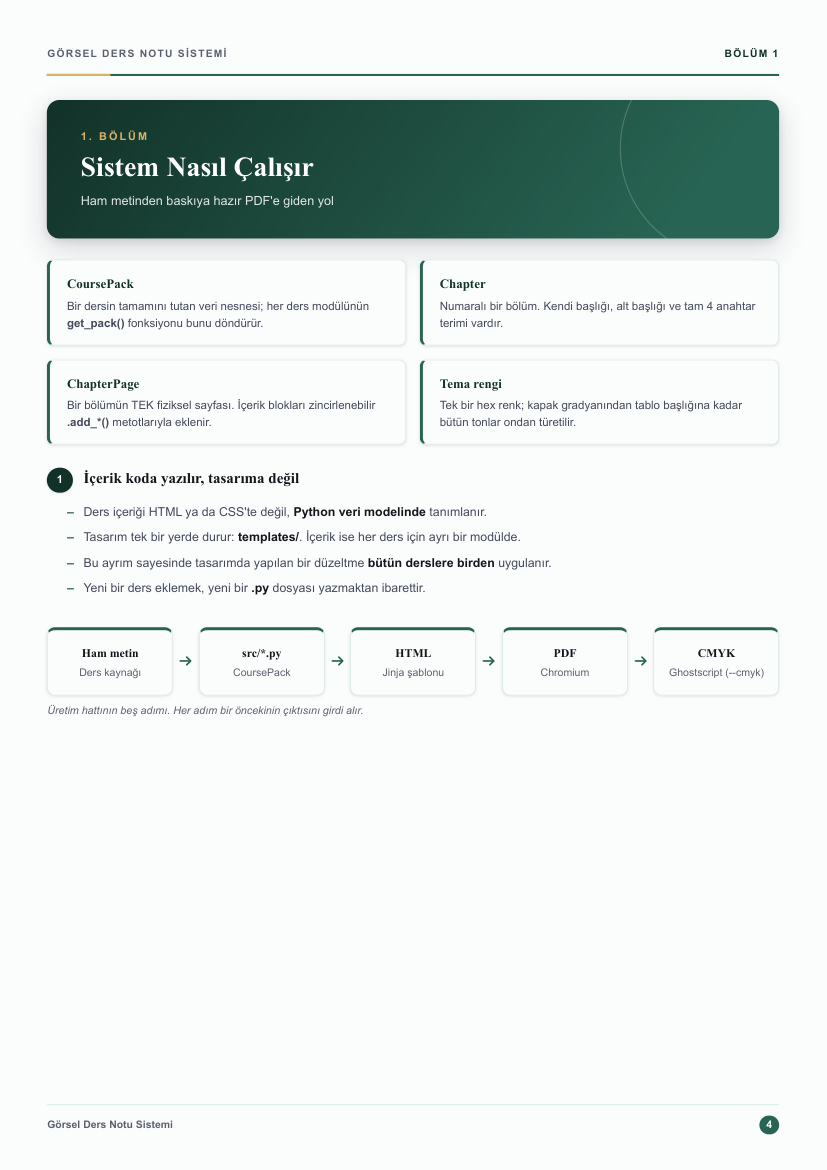
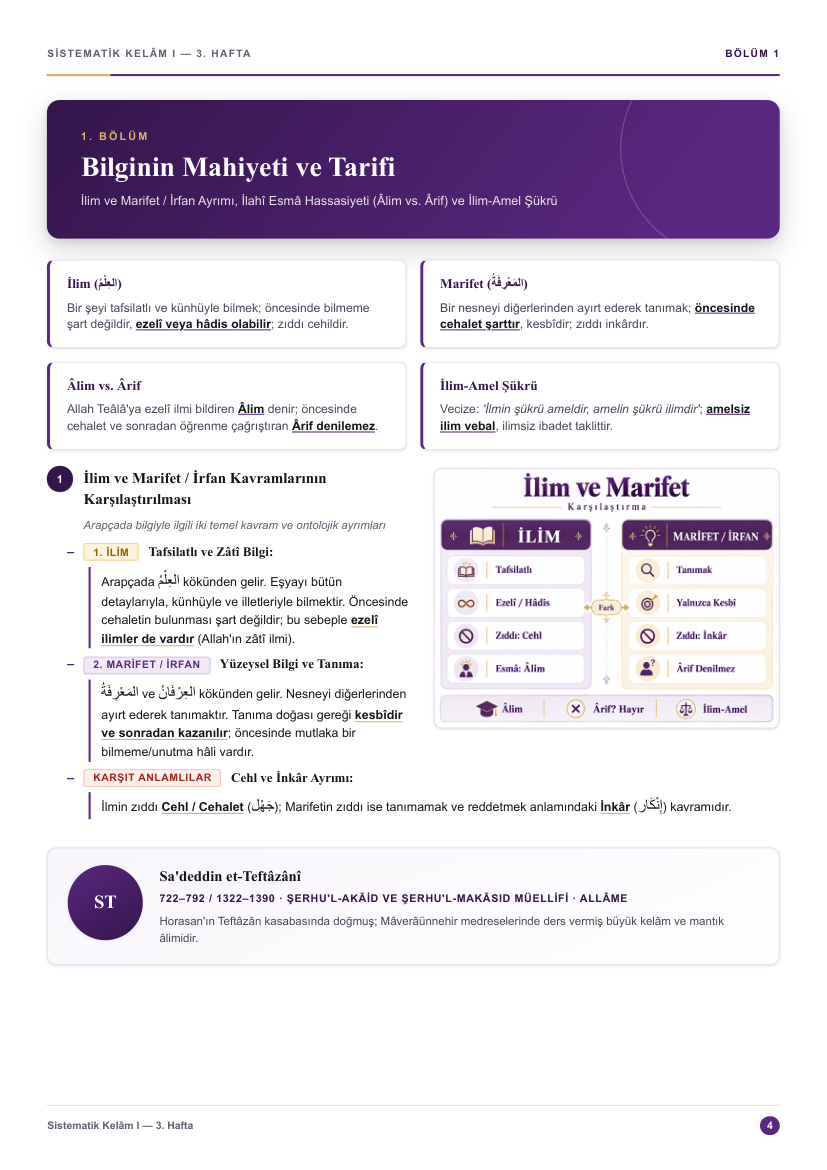
docs(readme): gorsel ders notu uretim sistemi vitrini, pedagojik gorseller ve nass tipografisi ile guncellendi

diff --git a/README.md b/README.md
@@ -1,210 +1,184 @@
 # Görsel Ders Notu Üretim Sistemi
 
-[![build](https://github.com/ByNuman/ders-uretim-sistemi/actions/workflows/build.yml/badge.svg)](https://github.com/ByNuman/ders-uretim-sistemi/actions/workflows/build.yml) [![license: GPL v3](https://img.shields.io/badge/license-GPLv3-blue.svg)](LICENSE)
+[![build](https://github.com/ByNuman/ders-uretim-sistemi/actions/workflows/build.yml/badge.svg)](https://github.com/ByNuman/ders-uretim-sistemi/actions/workflows/build.yml) [![license: GPL v3](https://img.shields.io/badge/license-GPLv3-blue.svg)](LICENSE) [![Python 3.10+](https://img.shields.io/badge/python-3.10+-3776AB.svg?logo=python&logoColor=white)](https://www.python.org/) [![Playwright](https://img.shields.io/badge/render-Playwright%20Chromium-2EAD33.svg?logo=playwright&logoColor=white)](https://playwright.dev/) [![Print Ready](https://img.shields.io/badge/print-A4%20%7C%20PDF%2FX--4-critical.svg)](#ne-üretir)
 
-Üniversite derslerinin ham metin özetlerini **A4 görsel ders notu kitabı**
-PDF'ine çeviren bir üretim hattı. Çıktı; kapak, içindekiler, genel bakış,
-numaralı bölümler (terim kutuları, kişi kartları, karşılaştırma tabloları,
-akış şemaları, vurgu kutuları), kavramlar sözlüğü ve 20 soruluk çoktan
-seçmeli test + çözümlü cevap anahtarından oluşur.
+Üniversite derslerinin ve İslâmî ilimler müfredatının ham metin özetlerini **A4 görsel ders notu kitabı** PDF'ine çeviren yüksek standartlı bir üretim hattı. 
 
-PDF doğrudan **fotokopiyle çoğaltılmak** üzere hazırlanır: dar kenarlı A4,
-RGB, taşma payı yok. Matbaaya iş göndereceğiniz gün `--cmyk` bayrağı aynı
-dosyayı PDF/X-4 (DeviceCMYK) standardına çevirir.
+Çıktı; altın köşe motifli vektörel kapak, kapak arkası boş sayfa (çift taraflı baskı / Senaryo A uyumu), tek sayfalık dinamik içindekiler, 4:3 oranında pedagojik şema ve görsel kutulu bölümler (`add_block_gorsel`), İslâmî ilimler / Arapça nass ve satır altı (interlinear) tercüme levhaları, 4'lü tematik kelime kartları ve 20 soruluk pedagojik zorluk piramidine sahip çoktan seçmeli test (10+10 ferah düzen) + analitik çözümlü cevap anahtarından oluşur.
 
-Ders içeriği HTML/CSS'te değil, **Python veri modelinde** yazılır
-(`cekirdek/content_model.py`). Tasarım tek bir yerde durur (`templates/`), içerik ise
-her ders için ayrı bir modülde. Bu yüzden tasarımda yapılan bir düzeltme tüm
-derslere birden uygulanır.
+PDF doğrudan **fotokopi ve ofis yazıcısıyla çoğaltılmak** üzere hazırlanır: dar kenarlı A4 (210 × 297 mm), RGB, taşma payı yok. Matbaaya iş göndereceğiniz gün `--cmyk` bayrağı aynı dosyayı **PDF/X-4 (DeviceCMYK)** standardına çevirir ve kesim kutularını yazar.
+
+Ders içeriği HTML/CSS'te değil, **Python veri modelinde** tanımlanır (`cekirdek/content_model.py`). Tasarım tek bir yerde durur (`templates/`), içerik ise her ders için ayrı bir modülde (`src/`). Bu sayede tasarımda yapılan bir iyileştirme tüm derslere ve haftalara anında uygulanır.
+
+---
 
 <p align="center">
-  <img src="docs/ornek-kapak.png" alt="Kapak sayfası" width="24%">
-  <img src="docs/ornek-genel-bakis.png" alt="Genel bakış sayfası" width="24%">
-  <img src="docs/ornek-bolum.png" alt="Bölüm sayfası" width="24%">
-  <img src="docs/ornek-test.png" alt="Test sayfası" width="24%">
+  <img src="docs/ornek-kapak.png" alt="Vektörel Kurumsal Kapak" width="24%">
+  <img src="docs/ornek-bolum.png" alt="Pedagojik Görsel ve Şema Kutulu Bölüm" width="24%">
+  <img src="docs/ornek-kelime-kartlari.png" alt="Arapça Tematik Kelime Kartları Fihristi" width="24%">
+  <img src="docs/ornek-test.png" alt="20 Soruluk Pedagojik Değerlendirme Testi" width="24%">
 </p>
 
 <p align="center">
-  <sub>Depoyla birlikte gelen <code>ornek_ders</code> çıktısından: kapak ·
-  genel bakış · bölüm · değerlendirme testi</sub>
+  <sub><b>Sistemin güncel çıktılarından:</b> Vektörel Kurumsal Kapak · Pedagojik Görsel Kutulu Bölüm (4:3 Float Mizanpaj) · Tematik Arapça Kelime Kartları · 10+10 Ferah Değerlendirme Testi</sub>
 </p>
 
-## Hızlı başlangıç
+<p align="center">
+  <img src="docs/ornek-interlinear.png" alt="Kelime Kelime Satır Altı Tercüme ve Kavram Levhası" width="48.5%">
+  <img src="docs/ornek-cozum.png" alt="Genişletilmiş Analitik Çözümlü Cevap Anahtarı" width="48.5%">
+</p>
 
-Sistemi yeni indirdiyseniz sırasıyla şunları yapın (~10-15 dk):
+<p align="center">
+  <sub><b>Derinlikli Dil ve Sınav Mimarisi:</b> Kelime Kelime Satır Altı (Interlinear) Tercüme Levhası ve Kavram Şeması · Arapça Mealli Analitik Çözümlü Cevap Anahtarı</sub>
+</p>
+
+---
+
+## Öne Çıkan Pedagojik ve Tipografik Standartlar
+
+### 1. 🖼 Pedagojik Görsel & Şema Matrisi (`add_block_gorsel`)
+- **Float Metin Sarmalama Mimarisi:** Görsel kutusu rijit grid yerine sağa yaslanır (`float: right`). Metin başlığı ve ilk maddeler görselin solunda akarken, devam eden maddeler görselin altına taşarak tam genişliğe yayılır; sayfada ölü boşluk kalmaz.
+- **4:3 En-Boy Oranı:** Tüm şema ve infografik çerçeveleri uluslararası 4:3 standardında yerleştirilir.
+- **11 Temel Pedagojik Şablon:** İnfografik Harita (havzalar), Kronolojik Zaman Çizelgesi, İsnad/Sened Ağacı, Hüküm Karar Ağacı, Hiyerarşik Değerler Piramidi, Çoklu Mezhep/Ekol Matrisi, İki Kutuplu Karşılaştırma Şeması, Silsile & İlim Ağacı, Kavram & Nitelik Şeması, Döngüsel Süreç Modeli, Yapısal Kesit & Eser Mimarisi.
+- **Sıfır Mikro-Metin Kuralı:** Görsel kutuları kompakt olduğundan, içine okunaksız küçük paragraflar konulmaz; iri, net ve ferah 1–3 kelimelik Türkçe kavram etiketleri ve akış okları kullanılır.
+
+### 2. 📖 İslâmî İlimler, Nass ve Arapça BiDi Tipografisi
+- **BiDi İzolasyonu & Font Ölçeği:** LTR Türkçe metin içerisinde Arapça karakterlerin noktalama işaretlerini ve liste imlerini bozmasını önlemek için tüm Arapça ibareler `<bdi class="ar">` ile izole edilir. Arapça ve harekeli ibareler net okunabilirlik için %130 daha büyük (`font-size: 1.28em–1.32em`) ve ferah satır aralığıyla (`line-height: 1.68`) işlenir.
+- **Arap Dili Bütünleşik Modeli:** 
+  - Kitap başındaki kelimeler 4 sütunlu estetik kelime kartları (`.vocab-grid-4`, `.v-card`) halinde tanzim edilir (Arapça kelime, sarf/vezin/cem rozeti, Türkçe karşılık).
+  - Klasik metinler, hutbeler ve alıştırmalar `_w(ar, tr)` belirteçleriyle kelime kelime satır altı (interlinear) tercüme edilir.
+  - Ana metinler `_board` (çift sütunlu levha), alıştırmalar `_box` (satır altı kutusu) ile sunulur.
+
+### 3. 🎯 20 Soruluk Pedagojik Zorluk Piramidi & Çözümlü Cevap Anahtarı
+- **Pedagojik Piramit (10 + 10 Soru):** 
+  - *1–6. Sorular (Kolay):* Doğrudan kavram, terim ve isim bilgisi.
+  - *7–14. Sorular (Orta):* Karşılaştırma, usûl tahlili ve sebep-sonuç ilişkileri.
+  - *15–20. Sorular (Zor):* Öncüllü sorular (Roman rakamlı `I, II, III`), olumsuz soru kökleri ve Arapça ibare çözümlemeleri.
+- **Şık Boyutu Eşitliği & Homojenlik:** "En uzun şık doğru cevaptır" yanılsaması kesinlikle engellenir; 5 seçenek (`A, B, C, D, E`) paralel cümle yapısında ve birbirine denk uzunlukta tanzim edilir.
+- **Parantez İçi Tüyo Yasağı:** Soru kökünde veya şıklarda terimin Türkçe anlamını parantez içinde vermek yasaktır; anlam ve izahlar çözümlü cevap anahtarında öğretici olarak sunulur.
+- **Ferah Test Düzeni:** Test tam 2 sayfaya yayılır. Sorular arasında göz yoran kesik çizgiler yerine temiz dikey beyaz boşluk (`margin-bottom: 1.0–2.0mm`) kullanılır.
+- **Analitik Çözümlü Cevap Anahtarı:** Tam 1 sayfaya dengeli yayılır (%85–95 doluluk). Minik punto yerine gövde standardına yakın punto (`9.2pt`), belirgin doğru cevap hap rozetleri (`8.2pt`) ve Arapça ibarelerin Türkçe mealleri eksiksiz verilir.
+
+### 4. 📐 Senaryo A Mizanpajı & Çift Taraflı Baskı Uyumu
+- **Kapak Arkası Boş Sayfa:** Çift taraflı baskıda içindekiler sayfasının daima sağ sayfada açılabilmesi için kapağın hemen arkasına boş sayfa (`<section class="page blank-page ...">`) yerleştirilir.
+- **Tekil Ders Notu Akışı:** `s.1 Kapak` → `s.2 Boş Sayfa` → `s.3 İçindekiler` → `s.4 Bölüm 1`.
+- **Tek Sayfalık İçindekiler:** İçindekiler asla 2. sayfaya taşmaz (`TOC_MAX_ROWS = 14`); sığdırmayı CSS sıkışık kipi dinamik olarak yönetir.
+
+### 5. ⚡ 0 mm Taşma & Sayfa Verimliliği
+- Sayfalarda gereksiz boşluk ve seyreklik yasaktır; her sayfa `%90–100` doluluk hedefler.
+- `tools/olcum.py` ile sayfa doluluğu milimetrik ölçülür; `build.py` taşma denetiminde **0 mm taşma** ("tüm sayfalar 210x297mm sınırları içinde ✓") görülmeden derleme tamamlanmış sayılmaz. Taşan sayfalar `tools/dengele.py` ile otomatik dengelenir.
+
+---
+
+## Hızlı Başlangıç
+
+Sistemi bilgisayarınıza kurmak ~10-15 dakika sürer (büyük bölümü Chromium indirmesidir):
 
 ```bash
 git clone https://github.com/ByNuman/ders-uretim-sistemi.git
 cd ders-uretim-sistemi
 
-pip install -r requirements.txt      # Python paketleri
-npm install                          # PDF'i Chromium render eder
-npx playwright install chromium      # ~150 MB, sadece ilk kurulumda
+pip install -r requirements.txt      # Python paketleri (jinja2, pypdf, pymupdf vb.)
+npm install                          # Playwright altyapısı
+npx playwright install chromium      # PDF render motoru (~150 MB, tek seferlik)
 
-python build.py ornek_ders            # örnek dersi derle
+python build.py ornek_ders           # Örnek dersi derle
 ```
 
-Son komut 13 sayfalık örnek bir ders PDF'i üretir. Ürettiyse kurulum
-tamamdır. **Ghostscript** yalnızca matbaa çıktısı (`--cmyk`) alacaksanız
-gerekir; varsayılan A4 RGB çıktı için kurmanıza gerek yok.
+Son komut 13 sayfalık örnek bir ders PDF'i üretir. Ürettiyse kurulum tamamdır.
 
-**Adım adım anlatım, işletim sistemine göre kurulum ve sorun giderme için:
-[`docs/KURULUM.md`](docs/KURULUM.md)**
+**İşletim sistemine göre adım adım anlatım ve sorun giderme için: [`docs/KURULUM.md`](docs/KURULUM.md)**
 
-## Ne üretir
+---
+
+## Ne Üretir
 
 | Çıktı | Komut |
 |---|---|
-| Tek dersin görsel ders notu PDF'i | `python build.py <slug> --sinif X --donem Y --sinav Z` |
-| Bir dönemin tüm derslerini içeren birleşik kitap | `python build_kitap.py --sinif X --donem Y --sinav Z` |
+| Tek dersin / haftanın görsel ders notu PDF'i | `python build.py <slug> --sinif X --donem Y --sinav Z` |
+| Bir dönemin veya haftanın birleşik kitabı | `python build_kitap.py --sinif X --donem Y --sinav Z` |
 | Bir sınıfın tüm ders kapaklarının renk önizlemesi | `python tools/kapak_onizleme.py --sinif 3` |
+| Sayfa doluluk ve verimlilik ölçümü | `python tools/olcum.py <slug> --sinif X --donem Y --sinav Z` |
+| Otomatik sayfa taşma dengelemesi | `python tools/dengele.py <slug> --sinif X --donem Y --sinav Z` |
 
-Sayfa özellikleri: **A4 (210 × 297 mm)**, dar kenar boşlukları
-(üst 12 · alt 15 · yan 12 mm), taşma payı yok ve gerçek PDF yer imleri.
-Çıktı **RGB**'dir — doğrudan fotokopi/ofis yazıcısı içindir. Matbaaya iş
-göndereceğiniz gün `--cmyk` bayrağı **PDF/X-4 (DeviceCMYK)** dönüşümünü
-açar ve kesim kutularını yazar.
+Sayfa özellikleri: **A4 (210 × 297 mm)**, dar kenar boşlukları (üst 12 · alt 15 · yan 12 mm), taşma payı yok ve gerçek PDF yer imleri. Çıktı varsayılan olarak **RGB**'dir. Matbaa için `--cmyk` bayrağı **PDF/X-4 (DeviceCMYK)** dönüşümünü açar.
 
-## Depoda ders PDF'leri neden yok?
+---
 
-Bu depo **sistemi** içerir, ders çıktılarını değil. İki sebeple:
+## Depoda Ders PDF'leri Neden Yok?
 
-1. **Çıktılar yeniden üretilebilir.** Bir dersin gerçek içeriği
-   `<dönem>/src/<ders>.py` modülüdür; PDF her zaman ondan yeniden derlenir.
-   Üretilmiş PDF'i depoda tutmak, aynı bilgiyi ikinci kez ve ikili (binary)
-   biçimde saklamak olurdu — git ikili dosyaları sıkıştıramadığı için her
-   yeniden derleme depoya tam bir kopya daha eklerdi.
-2. **Ham ders kaynakları kişiseldir.** `kaynaklar/` altındaki materyal
-   başkalarının ders notları/telifli metinleri olabilir; yayınlanmaz.
+Bu depo **sistemin kendisini** içerir, telifli ders çıktılarını değil. İki gerekçeyle:
 
-Bu yüzden `gorsel_ders_notlari/`, `calisma_rehberleri/`, `ders_anlatimlari/`
-ve `kaynaklar/` altındaki dosyalar `.gitignore`'dadır; yalnızca klasör
-iskeleti (`.gitkeep`) depoda durur. **Kendi kaynak dosyalarınızın yedeğini
-ayrıca alın — bu depo onların yedeği değildir.**
+1. **Çıktılar Yeniden Üretilebilir:** Bir dersin asıl kaynağı `src/<ders>.py` modülüdür; PDF her zaman saniyeler içinde yeniden derlenebilir. İkili (binary) PDF dosyalarını depoda tutmak Git geçmişini gereksiz şişirir.
+2. **Ham Kaynaklar Kişiseldir:** `kaynaklar/` altındaki materyaller telifli kitaplar veya el notları olabilir; açık depoda yayınlanmaz.
 
-## Kurulum
+Bu sebeple `gorsel_ders_notlari/`, `calisma_rehberleri/`, `ders_anlatimlari/` ve `kaynaklar/` altındaki dosyalar `.gitignore` ile korunur; depoda yalnızca klasör iskeletleri (`.gitkeep`) durur.
 
-Ayrıntılı, adım adım kurulum rehberi ayrı bir dosyadadır:
-**[`docs/KURULUM.md`](docs/KURULUM.md)** — işletim sistemine göre komutlar, her adım
-için doğrulama ve sık karşılaşılan hatalar.
+---
 
-Özet gereksinimler:
+## Klasör Mimarisi
 
-| Yazılım | Sürüm | Zorunlu mu? |
-|---|---|---|
-| Python | 3.10+ | Evet |
-| Node.js | 18+ | Evet (PDF render'ı Chromium yapar) |
-| Ghostscript | 9+ | Hayır — yalnızca `--cmyk` (matbaa) için gerekir |
-
-Matbaa kipini kullanacaksanız kurulumu doğrulamak için:
-
-```bash
-python cekirdek/pdfx.py        # Ghostscript + ICC profili teşhisi
-```
-
-### ICC profili (yalnızca `--cmyk` için, opsiyonel)
-
-`--cmyk` ile yapılan CMYK dönüşümü `assets/icc/ISOcoated_v2_eci.icc`
-(FOGRA39) profilini kullanır.
-Profil lisans onayı gerektirdiği için depoda gelmez; yoksa Ghostscript'in
-genel CMYK profiline düşülür ve uyarı basılır. Bkz. `assets/icc/README.md`.
-
-## Klasör yapısı
-
-Bütün çalışma tek bir `dersler/` klasöründe olur:
+Sistem hem basit tekil çalışmalar için düz `dersler/` yapısını hem de üniversite dönemlerini yöneten sınıf ağacını destekler:
 
 ```
-dersler/
+3-sinif/1-donem/vize/
 ├── kaynaklar/
-│   ├── ders_kaynaklari/<DERS ADI>/     # GİRDİ: ham ders metni / kaynak PDF
-│   ├── ogretmen_notlari/<DERS ADI>/    # GİRDİ: dağınık dikte notu
-│   └── özetlenmiş_dersler/<DERS ADI>/  # ARA:   yukarıdakilerden çıkarılan yazılı özet
-├── src/                                # <ders>.py içerik modülleri
-├── gorsel_ders_notlari/<DERS ADI>/     # ÇIKTI: PDF + HTML
-├── calisma_rehberleri/<DERS ADI>/      # ÇIKTI: çalışma rehberi
-└── ders_anlatimlari/<DERS ADI>/        # ÇIKTI: ders anlatımı
+│   ├── ders_kaynaklari/<DERS ADI>/     # GİRDİ: Ham ders metni / kaynak PDF
+│   ├── ogretmen_notlari/<DERS ADI>/    # GİRDİ: Ders takip ve dikte notları
+│   └── özetlenmiş_dersler/<DERS ADI>/  # GİRDİ: Ham metinden çıkarılan yazılı özet
+├── src/                                # <ders>_hafta_<N>.py Python içerik modülleri
+├── gorsel_ders_notlari/<DERS ADI>/     # ÇIKTI: 0 mm taşmalı nihai PDF + HTML
+├── calisma_rehberleri/<DERS ADI>/      # ÇIKTI: Pratik çalışma rehberleri
+└── ders_anlatimlari/<DERS ADI>/        # ÇIKTI: Detaylı akademik ders anlatımları
 ```
 
-Paylaşılan altyapı kökte durur: `build.py` · `build_kitap.py` ·
-`cekirdek/content_model.py` · `cekirdek/theme_engine.py` · `cekirdek/renk_uretici.py` · `cekirdek/pdfx.py` ·
-`templates/` · `tools/`
+Paylaşılan altyapı kök dizindedir:
+- `build.py` — Tekil ders ve hafta derleyicisi
+- `build_kitap.py` — Dönem ve haftalık birleşik kitap oluşturucu
+- `cekirdek/content_model.py` — Tip güvenli Python içerik veri modeli
+- `cekirdek/theme_engine.py` — Otomatik CSS ton ve palet türetici
+- `cekirdek/renk_uretici.py` — Resmî ders rengi belirleyici
+- `cekirdek/pdfx.py` — Ghostscript PDF/X-4 CMYK prepress motoru
+- `templates/` — Jinja2 HTML şablonları ve `style.css`
+- `tools/` — `olcum.py`, `dengele.py`, `kapak_onizleme.py`, `kalibre.py`
 
-### İsteğe bağlı: sınıf / dönem / sınav ağacı
+---
 
-Birden fazla sınıf ve sınav dönemini ayrı ayrı yönetmek isterseniz sistem
-`<sinif>-sinif/<donem>-donem/<sinav>/` ağacını da destekler. Bu ağaç
-kurulduğunda her komut üç parametreyi birlikte ister:
+## Renk = Dersin Ruhu
+
+Her dersin vurgu rengi tek bir hex kodundan türetilir; `cekirdek/theme_engine.py` kapak gradyanından tablo başlığına ve rozet tonlarına kadar tüm renkleri otomatik üretir. Ders renkleri `cekirdek/renk_uretici.py` içindeki `DERS_RENKLERI` tablosunda **önceden belirlenmiştir**:
+
+| Ders | Renk | Anlam ve Gerekçe |
+|---|---|---|
+| **Tefsir** | `#206040` | Mushaf yeşili — vahyin metni |
+| **Kur'an Okuma ve Tecvid** | `#1D6363` | Turkuaz — tilavetin akışı |
+| **Hadis** | `#664324` | Koyu deri cilt — rivayet, isnad, el yazması |
+| **Sistematik Kelâm** | `#592F79` | Erguvan moru — soyut akıl, akide |
+| **İslâm Felsefesi Tarihi** | `#2F2D76` | Gece mavisi — serin akıl, hikmet |
+| **İslâm Hukuku** | `#7A2433` | Vişne — mühür, hüküm, otorite |
+| **Tasavvuf** | `#7B3260` | Gül kurusu — aşk, sema, kalp |
+| **İslâm Medeniyeti / Mezhepleri** | `#776931` | Bronz — altın çağ, kadim tarih |
+| **Arap Dili ve Edebiyatı** | `#8C2F21` | Terracotta — çöl toprağı, hat sanatı |
+| **Eğitim Bilimleri / Sınıf Yönetimi** | `#1F4775` | Çini laciverti — düzen, pedagoji |
+| **Din Eğitimi / Rehberlik** | `#51662E` | Zeytin yeşili — fide, yetiştirme |
 
 ```bash
-python build.py <ders> --sinif 2 --donem 2 --sinav final
+python cekirdek/renk_uretici.py --tablo               # Belirlenmiş renk tablosu
+python cekirdek/theme_engine.py                       # Hazır palet önizlemesi
+python tools/kapak_onizleme.py --sinif 3              # Kapakları tek PDF'te incele
 ```
 
-Böylece aynı ders farklı dönemlerde bağımsız sürümler halinde tutulabilir
-(ör. bir dersin vize ve final kitabı ayrı renkte ve ayrı içerikte olur) ve
-`build_kitap.py` bir dönemin tüm derslerini tek ciltte birleştirir.
+---
 
-Sınıf ağacı diskte yoksa sistem kendiliğinden `dersler/` kipine geçer;
-açıkça seçmek için `--duz` bayrağını kullanın.
+## Lisans ve Kullanım Şartları
 
-## İlk dersinizi üretmek
+Bu depoda iki ayrı içerik türü bulunur ve **bağımsız olarak** lisanslanmıştır:
 
-1. `dersler/src/ornek_ders.py` dosyasını kopyalayın ve içeriğini değiştirin.
-   Bu örnek, sistemin kendisini anlatır ve kullanılabilecek bütün blokları
-   (terim kutusu, madde listesi, tablo, vurgu kutusu, akış şeması, sözlük,
-   test) örnekler. Tek dışa verilen şey `get_pack() -> CoursePack`'tir.
-2. Derleyin:
-   ```bash
-   python build.py yeni_ders
-   ```
-3. Konsoldaki **taşma denetimi** çıktısını okuyun. Taşma varsa sayfaları
-   otomatik yeniden dağıtın:
-   ```bash
-   python tools/dengele.py yeni_ders
-   ```
-
-Veri modelinin tam API referansı ve üretim sürecinin adım adım kuralları
-`CLAUDE.md` içindedir.
-
-## Renkler
-
-Her dersin vurgu rengi tek bir hex'ten türetilir; `cekirdek/theme_engine.py` kapak
-gradyanından tablo başlığına kadar tüm tonları otomatik üretir. Ders renkleri
-`cekirdek/renk_uretici.py` içindeki `DERS_RENKLERI` tablosunda **önceden
-belirlenmiştir** ve ilke "renk = dersin ruhu"dur.
-
-```bash
-python cekirdek/renk_uretici.py --tablo               # belirlenmiş ders renkleri
-python cekirdek/theme_engine.py                       # hazır palet önizlemesi
-python tools/kapak_onizleme.py --sinif 3     # kapakları tek PDF'te gör (sınıf ağacı kipi)
-```
-
-## Araçlar
-
-```bash
-python tools/olcum.py <ders>     # sayfa doluluğunu ölçer
-python tools/dengele.py <ders>   # sayfaları taşmayacak biçimde yeniden dağıtır
-python tools/kalibre.py          # sayfa boyutu değiştiyse sabitleri yeniden ölçer
-```
-
-## Lisans
-
-Bu depoda iki tür içerik vardır ve **ayrı ayrı** lisanslanmıştır:
-
-| Ne | Lisans |
-|---|---|
-| **Sistem** — `build.py`, `templates/`, `cekirdek/theme_engine.py`, `tools/` … | **GNU GPL v3** ([`LICENSE`](LICENSE)) |
-| **Ders içerikleri** — `<dönem>/src/*.py` içindeki metinler | Tüm hakları saklıdır |
+| Bileşen | Lisans | Açıklama |
+|---|---|---|
+| **Sistem & Araçlar** (`build.py`, `templates/`, `cekirdek/`, `tools/`) | **GNU GPL v3** ([`LICENSE`](LICENSE)) | Özgür yazılımdır; değiştirebilir ve dağıtabilirsiniz. |
+| **Ders İçerikleri** (`<dönem>/src/*.py` içindeki ders metinleri) | **Tüm Hakları Saklıdır** | Üniversite ders kitaplarından türetilmiş kişisel özetlerdir; ticari veya serbest dağıtıma açık değildir. |
 
 Copyright (C) 2026 Numan Gözdaş
 
-Sistemi kullanabilir, değiştirebilir ve dağıtabilirsiniz; karşılığında ondan
-türettiğiniz çalışma da GPL v3 altında açık kalmak zorundadır. **Kendi ders
-notlarınızı üretmek bu şartın kapsamına girmez** — yükümlülük ancak sistemi
-(ya da ondan türeteni) başkasına dağıtırsanız doğar.
-
-Ders modülleri depoda yalnızca **örnek** olarak bulunur; üniversite ders
-kitaplarından türetilmiş özetler oldukları için serbest lisansla dağıtılamaz.
-Yapılarını örnek alıp kendi derslerinizi yazabilirsiniz, metinleri
-kopyalayamazsınız.
-
-Ayrıntılı açıklama ve üçüncü taraf bileşenler: **[`docs/TELIF.md`](docs/TELIF.md)**
+Ayrıntılı telif ve üçüncü taraf bileşen bilgileri için: **[`docs/TELIF.md`](docs/TELIF.md)**
